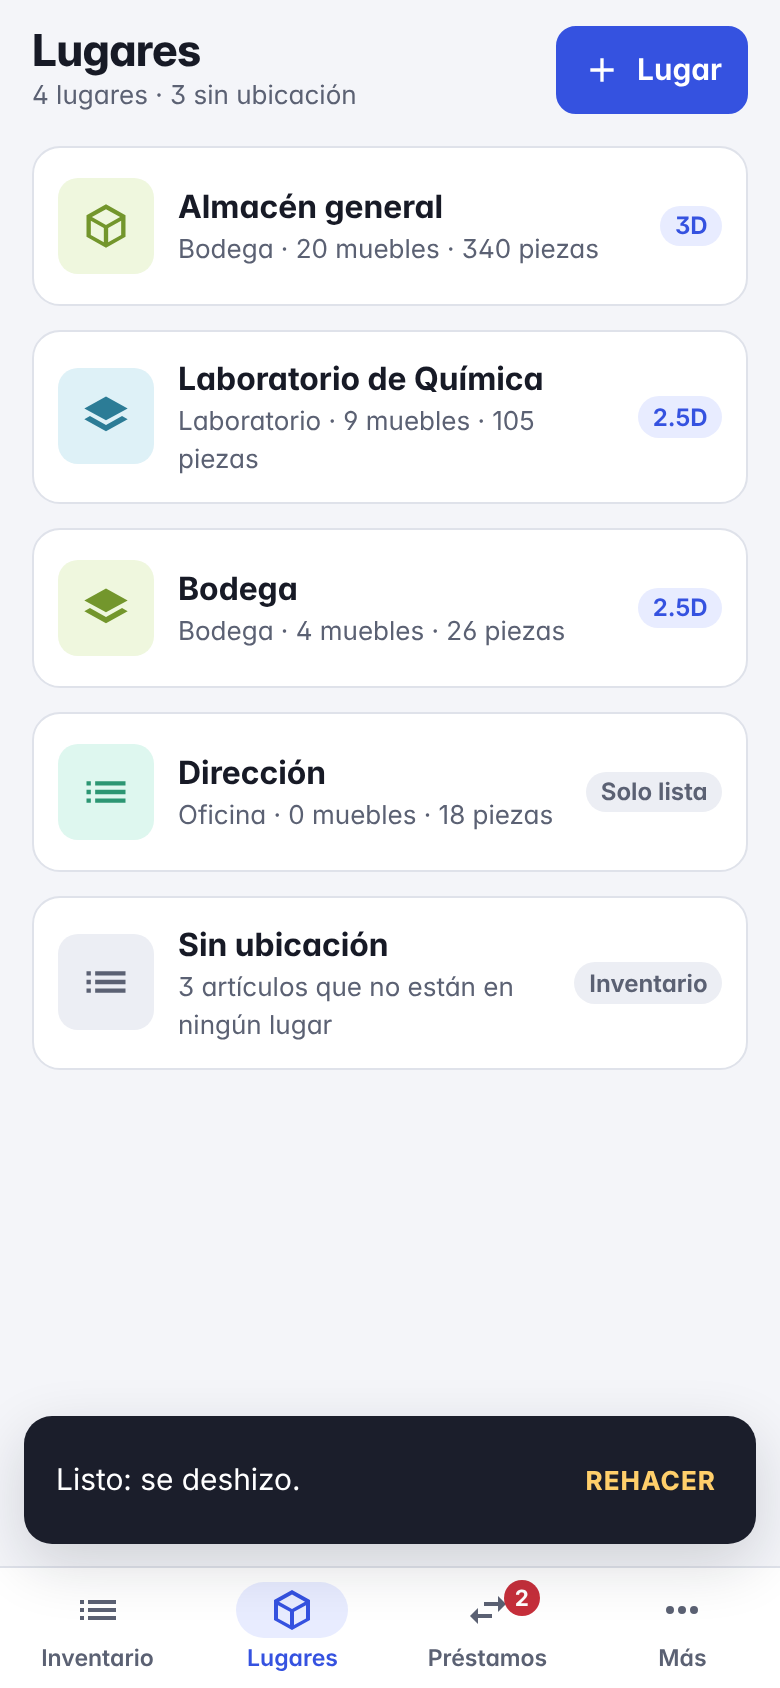
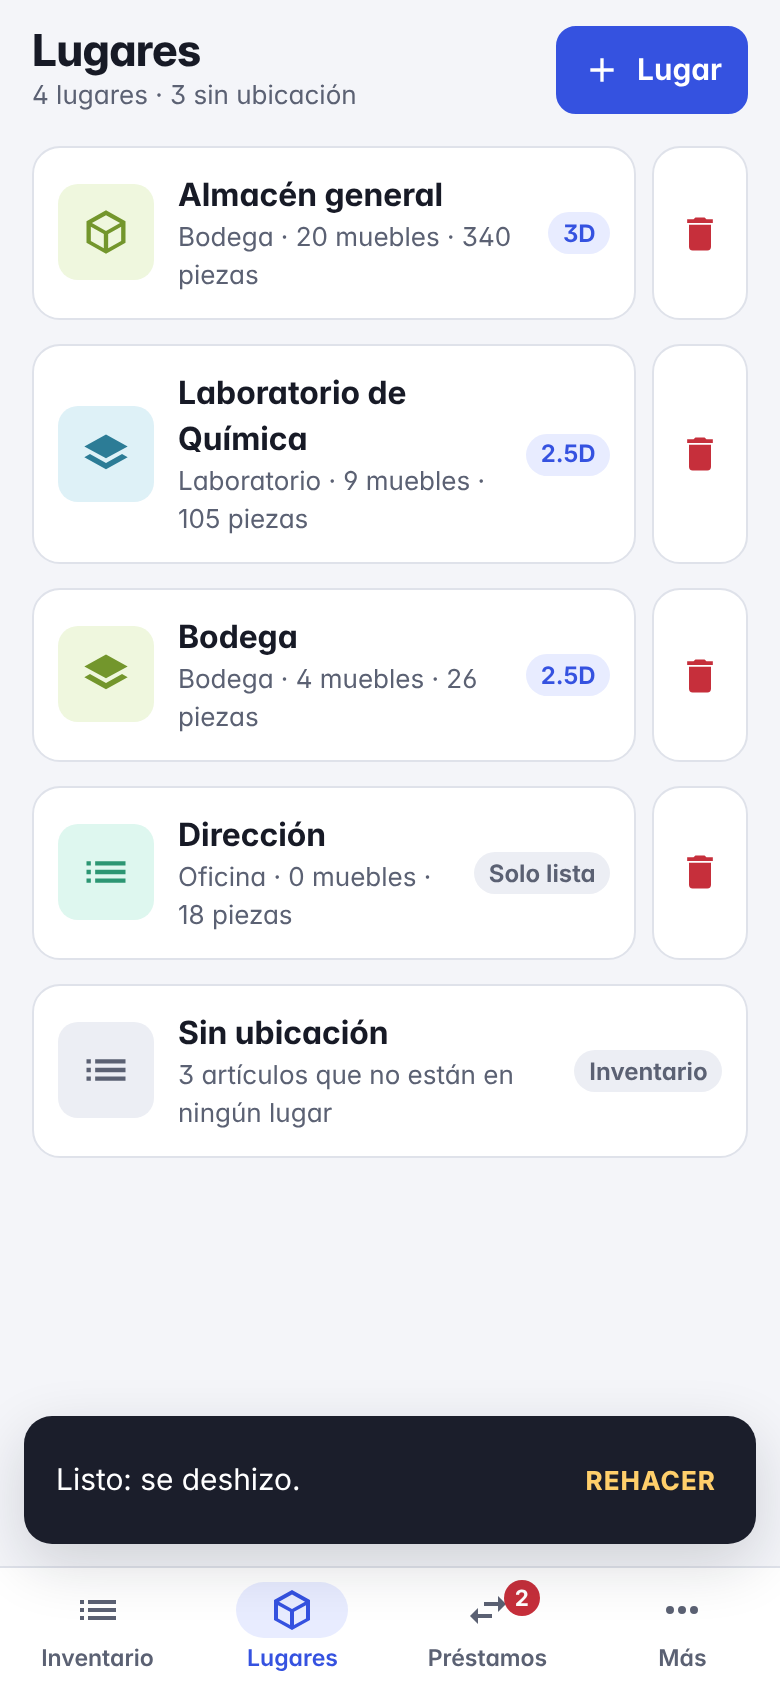
app9-ubica: bitácora con el prompt 23 y capturas de la versión final

diff --git a/apps/app9-ubica/entregables/fuentes/hacer_documentos.js b/apps/app9-ubica/entregables/fuentes/hacer_documentos.js
@@ -542,7 +542,8 @@ const OBJETIVOS = {
   19: 'Misión final: construir y terminar Ubica completa (inventario, 2.5D, 3D, interfaz nueva, pruebas y los cuatro entregables).',
   20: 'Diferenciar el 3D (objetos dentro de los muebles, animaciones), inventario por ubicación, simplificaciones y base de datos en crudo.',
   21: 'Organizar con menos pasos: alta limitada al lugar, mueble nuevo en el alta, acomodo automático, mover varios y encaje de objetos 3D.',
-  22: 'Que los objetos 3D se vean siempre y que el mueble no se transparente al seleccionarlo.'
+  22: 'Que los objetos 3D se vean siempre y que el mueble no se transparente al seleccionarlo.',
+  23: 'Botones para borrar lugares, revisión final y mover los entregables al repositorio público de descargas.'
 };
 
 function leerPrompts() {
